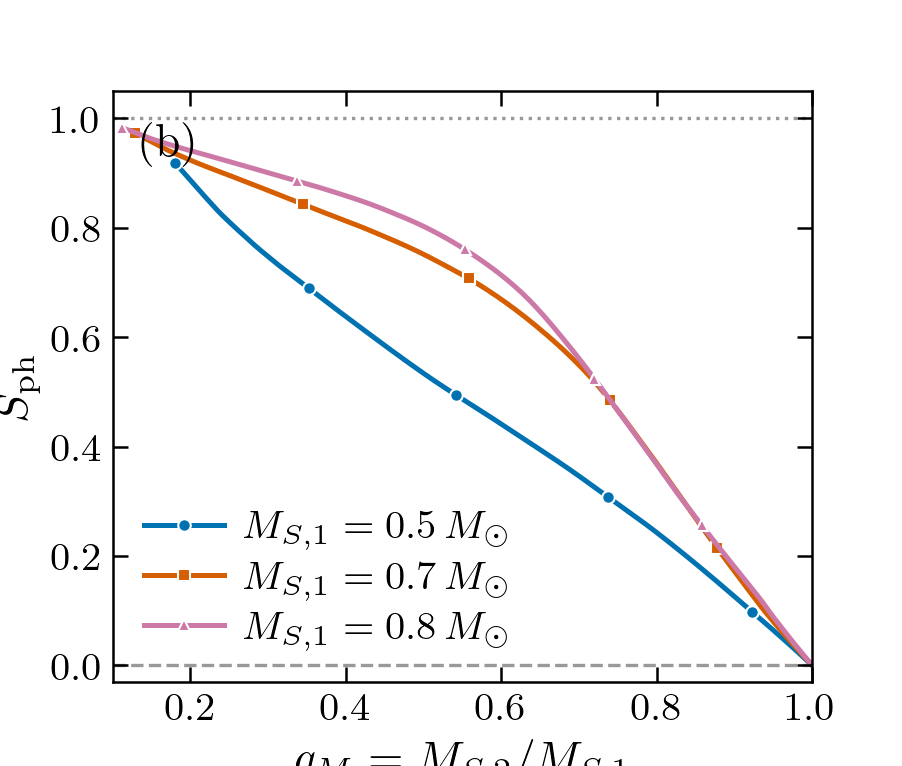
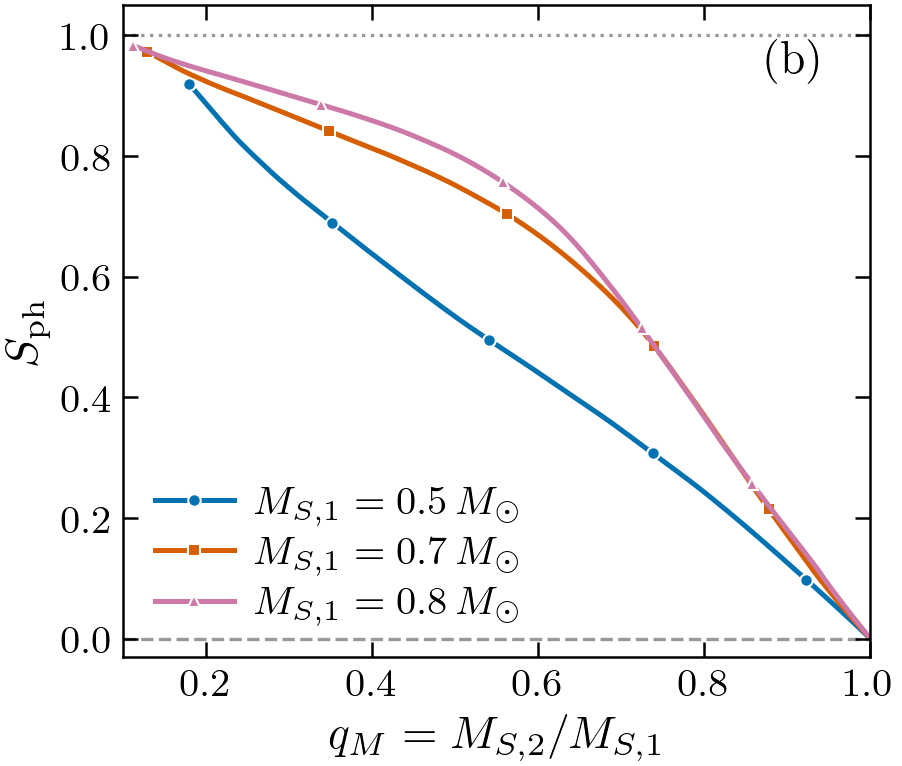
PARSEC figures: constrained layout, panel (b) label at upper right, q_f=q_M^4 label nearer its line

diff --git a/isochrone_phot_cancel.py b/isochrone_phot_cancel.py
@@ -465,12 +465,12 @@ def track_lines(ax, key):
 
 
 # (a) F146 flux ratio against mass ratio
-fig, ax = plt.subplots(figsize=(w, 0.85 * w))
+fig, ax = plt.subplots(figsize=(w, 0.85 * w), layout="constrained")
 q_ref = np.logspace(-1.1, 0.0, 500)
 ax.plot(q_ref, q_ref, color="k", lw=LW_THIN, ls="--")
 ax.plot(q_ref, q_ref ** 4, color="0.45", lw=LW_THIN, ls=":")
 ax.text(0.22, 0.42, r"$q_f=q_M$", fontsize=FS_ANNOT)
-ax.text(0.33, 2.5e-3, r"$q_f=q_M^4$", fontsize=FS_ANNOT, color="0.45")
+ax.text(0.40, 5e-3, r"$q_f=q_M^4$", fontsize=FS_ANNOT, color="0.45")
 track_lines(ax, "qf")
 ax.set_xscale("log")
 ax.set_yscale("log")
@@ -485,7 +485,7 @@ for f in save_figure(fig, output_directory / "physical_qM_qf_PARSECF146"):
 plt.close(fig)
 
 # (b) surviving first-order photocenter amplitude
-fig, ax = plt.subplots(figsize=(w, 0.85 * w))
+fig, ax = plt.subplots(figsize=(w, 0.85 * w), layout="constrained")
 ax.axhline(1.0, color="0.6", lw=LW_THIN, ls=":")
 ax.axhline(0.0, color="0.6", lw=LW_THIN, ls="--")
 track_lines(ax, "Sph")
@@ -494,7 +494,7 @@ ax.set_ylim(-0.03, 1.05)
 ax.set_xlabel(r"$q_M=M_{S,2}/M_{S,1}$")
 ax.set_ylabel(r"$S_{\rm ph}$")
 ax.legend(loc="lower left")
-panel_label(ax, "b")
+panel_label(ax, "b", x=0.86)
 for f in save_figure(fig, output_directory / "physical_photocenter_suppression_PARSECF146"):
     print("saved", f)
 plt.close(fig)
